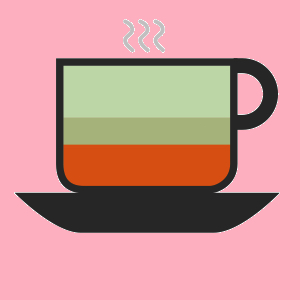
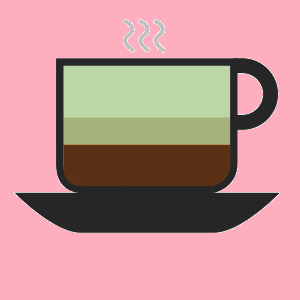
Americano page

Changed region(s): [[0.21, 0.48, 0.78, 0.63]]

diff --git a/COFFEE/Americano.html b/COFFEE/Americano.html
@@ -2,7 +2,7 @@
 <html lang="en">
 <head>
 
-  <title>Cappuccino</title>
+  <title>Americano</title>
 
   <link rel="stylesheet" href="https://stackpath.bootstrapcdn.com/bootstrap/4.1.3/css/bootstrap.min.css" integrity="sha384-MCw98/SFnGE8fJT3GXwEOngsV7Zt27NXFoaoApmYm81iuXoPkFOJwJ8ERdknLPMO" crossorigin="anonymous">
 
@@ -31,7 +31,7 @@
           </a>
           <div class="dropdown-menu" aria-labelledby="navbarDropdownMenuLink">
             <a class="dropdown-item" href="file:///Users/annabelbarham/Documents/Coding%20Course/Code-First-Project/Coffee/Cappuccino.html">Cappuccino</a>
-            <a class="dropdown-item" href="#">Americano</a>
+            <a class="dropdown-item" href="file:///Users/annabelbarham/Documents/Coding%20Course/Code-First-Project/COFFEE/Americano.html">Americano</a>
             <a class="dropdown-item" href="#">Espresso</a>
             <a class="dropdown-item" href="#">Macchiato</a>
             <a class="dropdown-item" href="#">Mocha</a>
@@ -45,78 +45,81 @@
     </div>
   </nav>
 
-<section>
+  <section>
 
-  <h1>What is a Cappuccino?</h1>
+    <h1>What is an Americano?</h1>
 
-  <div class="container">
+    <div class="container">
 
-    <article>
+      <article>
 
-      <br>
+        <br>
 
-      <p>A cappuccino is an espresso-based coffee drink that originated in Italy, and is traditionally prepared with steamed milk foam (microfoam).</p>
+        <p>An Americano is a type of coffee drink prepared by diluting an espresso with hot water, giving it a similar strength to, but different flavour from, traditionally brewed coffee. The strength of an Americano varies with the number of shots of espresso and the amount of water added.</p>
 
-      <p>Variations of the drink involve the use of cream instead of milk, and flavouring with cinnamon or chocolate powder. It is typically smaller in volume than a caffe latte, with a thicker layer of microfoam.</p>
+        <p>In Italy, caffe americano could mean either espresso with hot water or filtered coffee (caffe all’americana).</p>
 
-      <p>The name comes from the Capuchin friars, referring to the colour of their habits, and in this context referring to the colour of the beverage when milk is added in small portion to dark, brewed coffee (today mostly espresso). The physical appearance of a modern cappuccino with espresso créma and steamed milk is a result of a long evolution of the drink.</p>
+        <p>The term "Americano" means "American", and derives from American Spanish, dating to the 1970s, or from Italy. The term "caffe Americano" specifically is Italian for "American coffee". There is a popular, but unconfirmed, belief that the name has its origins in World War II when American G.I.s in Italy would dilute espresso with hot water to approximate the coffee to which they were accustomed.</p>
 
-      <p><a class="btn btn-outline-warning" href="https://en.wikipedia.org/wiki/Cappuccino" role="button">Continue reading &raquo;</a></p>
-
-
-    </article>
-
-    <aside>
-
-      <img src="file:///Users/annabelbarham/Documents/Coding%20Course/Code-First-Project/IMAGES/Cappuccino%20main%20brown.jpg" hight="700px">
-
-    </aside>
-
-  </div>
-
-  <hr class="divider">
-
-  <h2>How to make:</h2>
-
-  <div class="row">
-<div class="col-lg">
-
-    <h3>Ingredients</h3>
-
-    <hr>
-
-  <div class="jumbotron">
+        <p><a class="btn btn-outline-warning" href="https://en.wikipedia.org/wiki/Caff%C3%A8_Americano" role="button">Continue reading &raquo;</a></p>
 
 
-<p>18g ground espresso (or 1 espresso pod)</p>
+      </article>
 
-<p>150ml milk</p>
+      <aside>
 
-<h3>To serve</h3>
-<p>cocoa powder (optional)</p>
+        <img src="file:///Users/annabelbarham/Documents/Coding%20Course/Code-First-Project/IMAGES/Americano%20main%20brown.jpg" hight="700px">
 
-<h3>You will also need</h3>
-<p>the right cup, 200-250ml capacity</p>
-</div>
+      </aside>
 
-</div>
-<div class="col-lg">
+    </div>
 
-  <h3>Method</h3>
+    <hr class="divider">
 
-  <hr>
+    <h2>How to make:</h2>
 
-          <ol>
-            <li>Make around 35ml espresso using a coffee machine and pour it into the base of your cup.</li>
-            <li>Steam the milk with the steamer attachment so that it has around 4-6cm of foam on top. Hold the jug so that the spout is about 3-4cm above the cup and pour the milk in steadily. As the volume within the cup increases, bring the jug as close to the surface of the drink as possible whilst aiming to pour into the centre. Once the milk jug is almost touching the surface of the coffee, tilt the jug to speed up the rate of pour. As you accelerate, the milk will hit the back of the cup and start naturally folding in on itself to create a pattern on the top. Dust the surface with a little cocoa powder if you like.</li>
-          </ol>
-   </div>
+    <div class="row">
+      <div class="col-lg">
 
+        <h3>Ingredients</h3>
+
+        <hr>
+
+        <div class="jumbotron">
 
 
-</div>
+          <p>18g ground espresso (or 1 espresso pod)</p>
 
-</section>
+          <p>150ml milk</p>
+
+          <h3>To serve</h3>
+          <p>cocoa powder (optional)</p>
+
+          <h3>You will also need</h3>
+          <p>the right cup, 200-250ml capacity</p>
+        </div>
+
+      </div>
+      <div class="col-lg">
+
+        <h3>Method</h3>
+
+        <hr>
+
+        <ol>
+          <li>Have a latte mug, or coffee mug ready. Optional: pre-heat the mug by adding water, then boiling it in the microwave.</li>
+          <li>Pull a 3oz (or more if you like your drink stronger) espresso shot into a separate glass.</li>
+          <li>Pour about 3oz or so of hot water into the mug you plan to drink from.</li>
+          <li>Pour the espresso into the mug.</li>
+          <li>Enjoy your Americano!</li>
+        </ol>
+      </div>
+
+
+
+    </div>
+
+  </section>
 
   <div id="social-buttons" class="text-center">
     <button class="btn btn-md btn-twitter">Twitter</button>

diff --git a/CSS/landing-page.css b/CSS/landing-page.css
@@ -16,7 +16,7 @@ body{
     font-family: 'Slabo 27px', serif;
 }
 a {
-    color: brown;
+    color: #6F411C;;
     font-weight: bold;
 }
 
@@ -37,7 +37,7 @@ margin:0px;
 }
 
 #coffee-works {
-  color: brown;
+  color: #6F411C;
 }
 
 .coffeeheader {
@@ -81,48 +81,48 @@ margin:0px;
   }
 
 .img2{
-    background-image: url(file:///Users/annabelbarham/Documents/Coding%20Course/Code-First-Project/IMAGES/Americano%20LP.jpg);
+    background-image: url(file:///Users/annabelbarham/Documents/Coding%20Course/Code-First-Project/IMAGES/Americano%20LP%20brown.jpg);
     background-size: cover;
     background-position: center;
     border-radius:30px;
   }
 
 .img3{
-    background-image: url(file:///Users/annabelbarham/Documents/Coding%20Course/Code-First-Project/IMAGES/Espresso%20lp.jpg);
+    background-image: url(file:///Users/annabelbarham/Documents/Coding%20Course/Code-First-Project/IMAGES/Espresso%20LP%20brown.jpg);
     background-size: cover;
     background-position: center;
     border-radius:30px;
   }
 
 .img4{
-    background-image: url(file:///Users/annabelbarham/Documents/Coding%20Course/Code-First-Project/IMAGES/flat%20white%20LP.jpg);
+    background-image: url(file:///Users/annabelbarham/Documents/Coding%20Course/Code-First-Project/IMAGES/Flat%20white%20LP%20brown.jpg);
     background-size: cover;
     background-position: center;
     border-radius:30px;
   }
 
 .img5{
-    background-image: url(file:///Users/annabelbarham/Documents/Coding%20Course/Code-First-Project/IMAGES/Espresso%20Macchiato%20LP.jpg);
+    background-image: url(file:///Users/annabelbarham/Documents/Coding%20Course/Code-First-Project/IMAGES/Espresso%20Macchiato%20LP%20brown.jpg);
     background-size: cover;
     background-position: center;
     border-radius:30px;
   }
 
 .img6{
-    background-image: url(file:///Users/annabelbarham/Documents/Coding%20Course/Code-First-Project/IMAGES/Mocha%20LP.jpg);
+    background-image: url(file:///Users/annabelbarham/Documents/Coding%20Course/Code-First-Project/IMAGES/Mocha%20LP%20brown.jpg);
     background-size: cover;
     background-position: center;
     border-radius:30px;
 }
 
 .img7{
-    background-image: url(file:///Users/annabelbarham/Documents/Coding%20Course/Code-First-Project/IMAGES/Caffe%20Latte%20LP.jpg);
+    background-image: url(file:///Users/annabelbarham/Documents/Coding%20Course/Code-First-Project/IMAGES/Caffe%20Latte%20LP%20brown.jpg);
     background-size: cover;
     background-position: center;
     border-radius:30px;
 }
 .img8{
-    background-image: url(/Users/annabelbarham/Documents/Coding%20Course/Code-First-Project/IMAGES/Cafe%20au%20Lait%20LP.jpg);
+    background-image: url(file:///Users/annabelbarham/Documents/Coding%20Course/Code-First-Project/IMAGES/Cafe%20au%20Lait%20LP.jpg);
     background-size: cover;
     background-position: center;
     border-radius:30px;
@@ -130,7 +130,7 @@ margin:0px;
 
 h3 {
   text-align: center;
-  color: black;
+  color: #6F411C;
   font-family: 'Slabo 27px', serif;
 
 }

diff --git a/COFFEE/CSS/main.css b/COFFEE/CSS/main.css
@@ -3,7 +3,7 @@
 }
 
 .navbar-brand, .nav-link, .dropdown-item {
-  color: brown;
+  color: #6F411C;;
 }
 
 .nav-link:hover {
@@ -15,7 +15,7 @@
 }
 
 #coffee-works {
-  color: brown;
+  color: #6F411C;;
 }
 
 body {
@@ -37,20 +37,20 @@ section {
     text-align: center;
     font-weight: bold;
     font-size: 40px;
-    color: brown;
+    color: #6F411C;;
   }
 
   h2 {
     text-align: center;
     font-weight: bold;
     font-size: 40px;
-    color: brown;
+    color: #6F411C;;
   }
 
   h3 {
     font-size: 20px;
     font-weight: bold;
-    color: brown;
+    color: #6F411C;;
   }
 
   img {
@@ -77,9 +77,9 @@ ol {
 }
 
 .divider {
-  border-color: grey;
+border-color: grey;
 border-style: solid none;
-border-width: 4px 0;
+border-width: 1px;
 margin: 60px 30px;
 }
 

diff --git a/CSS/Sign Up.css b/CSS/Sign Up.css
@@ -21,17 +21,18 @@ img {
 
 .navbar-brand {
   font-family: 'Slabo 27px', serif;
-  color: brown;
+  color: #6F411C;;
 }
 
 .nav-link {
-  color: brown;
+  color: #6F411C;;
 }
 
 
 h1 {
-  color: white;
+  color: #6F411C;;
   font-size: 60px;
+  text-align: center;
 }
 
 #social-buttons button {

diff --git a/Landing-Page.html b/Landing-Page.html
@@ -84,7 +84,7 @@
         </a>
       </div>
     </div>
-    <div class="col-md-3 col-sm-12 mobileheight img7">
+    <div class="col-md-3 col-sm-12 mobileheight img8">
       <a class="coffee-link" href="Coffee/Latte.html">
         <div class="coffeeheader">
           <h1>Cafe au Lait</h1>
